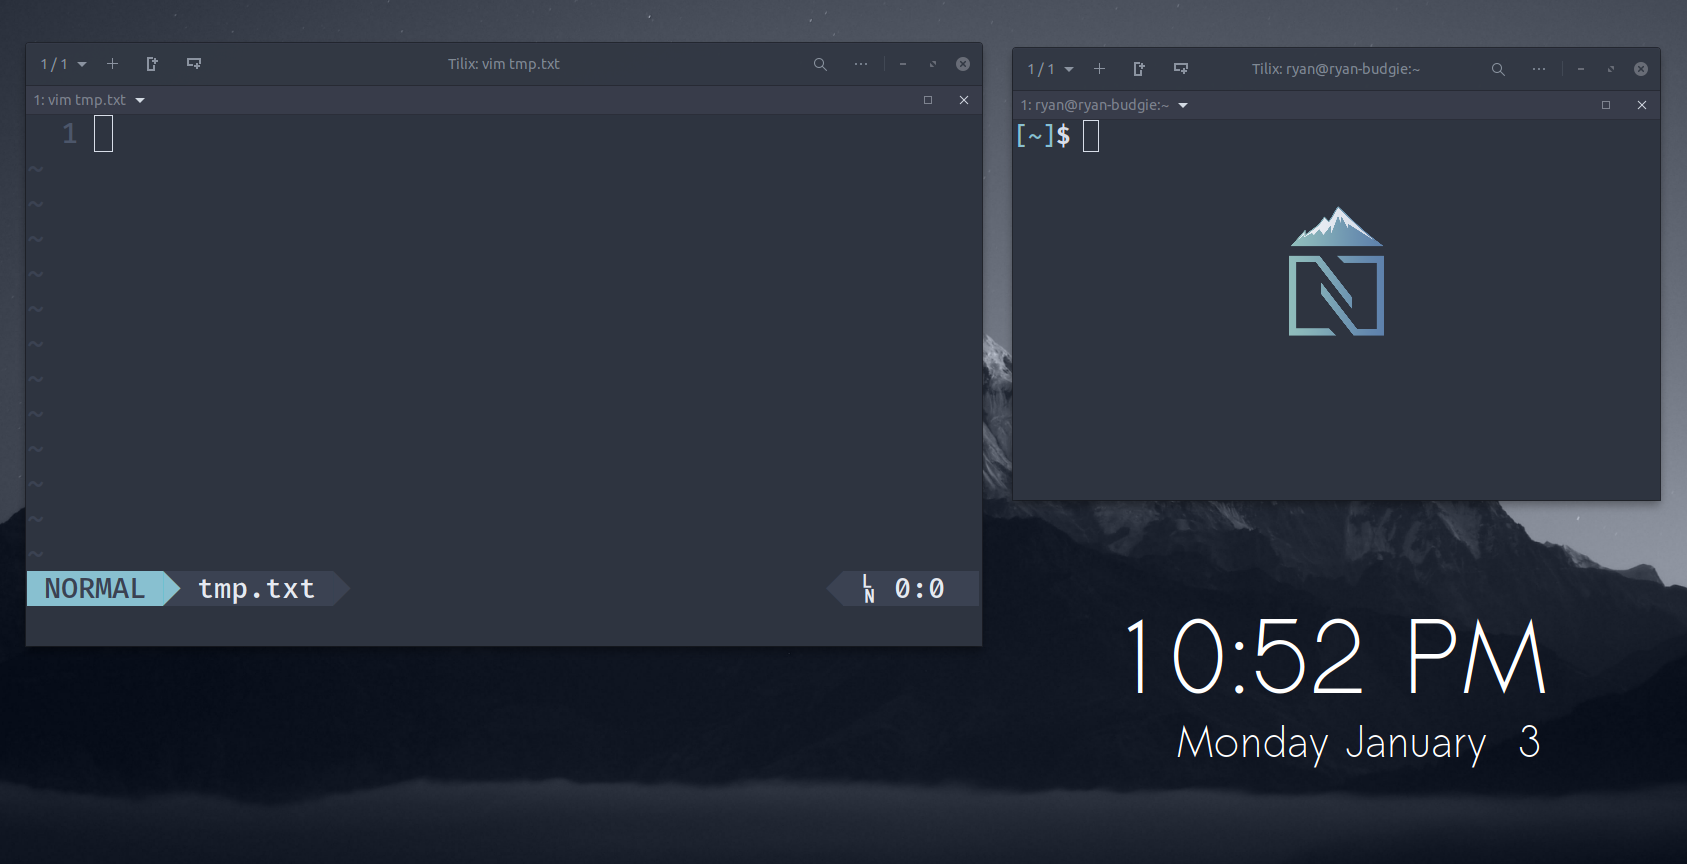
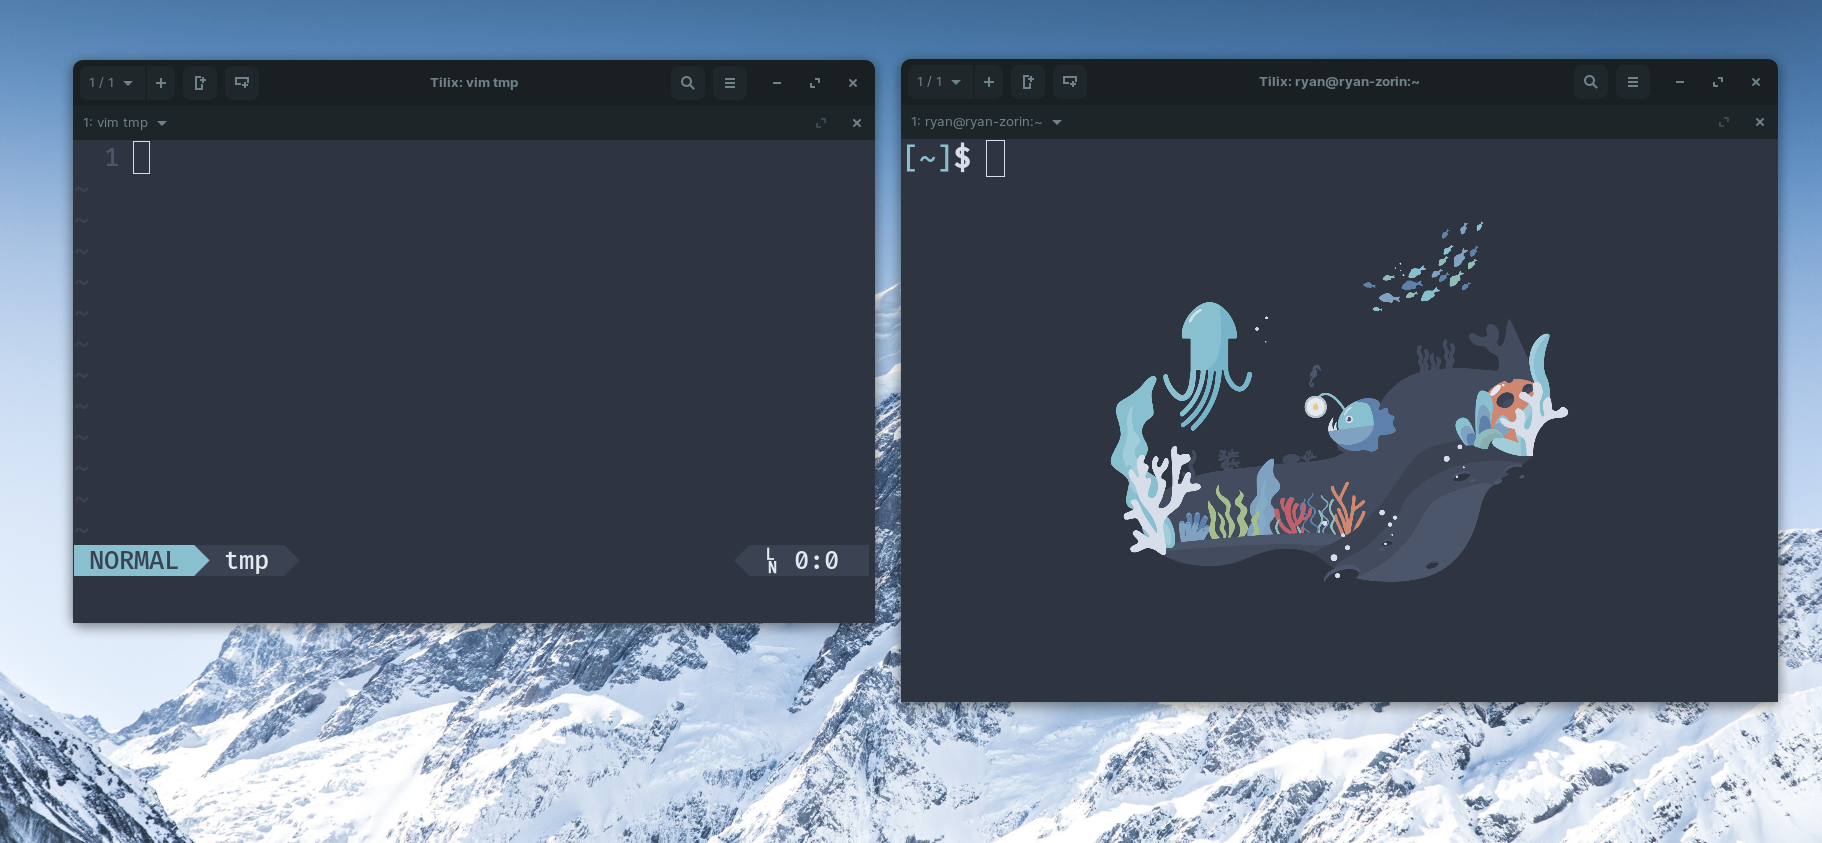
changes

diff --git a/README.md b/README.md
@@ -1,5 +1,5 @@
 # Linux Config
-  * OS - Ubuntu Budgie
+  * OS - Zorin
 
 # Shell Config
   * Terminal Emulator - [Tilix](https://github.com/gnunn1/tilix)
